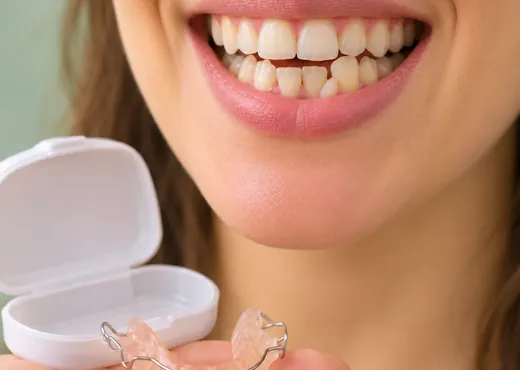
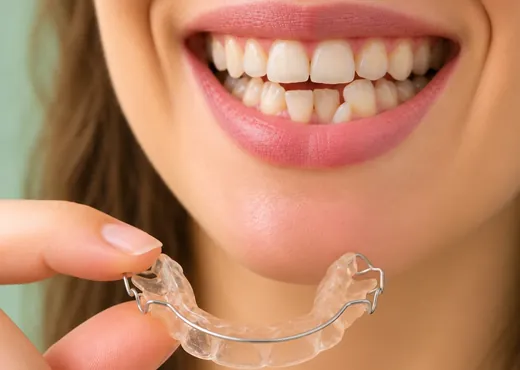
Troca a foto 5 do Para quem é por uma com a contenção visível
A contenção de acrílico com fio metálico fica inteira, na altura do queixo, na mesma composição da foto 6. Posição de corte das fotos 5 e 6 igualada.

Claude-Session: https://claude.ai/code/session_013ZBAMFUUhj3y7DouA4XRGk

diff --git a/styles.css b/styles.css
@@ -227,9 +227,8 @@ body.menu-aberto { overflow: hidden; }
 @media (min-width: 1024px) {
     .situacoes { gap: 20px; }
     .situacao-img { aspect-ratio: auto; height: clamp(140px, 25vh, 260px); }
-    /* Fotos 5 e 6: a boca fica no alto e o objeto embaixo, então o corte extra prioriza o alto */
-    .situacoes li:nth-child(5) .situacao-img img { object-position: center 10%; }
-    .situacoes li:nth-child(6) .situacao-img img { object-position: center 30%; }
+    /* Fotos 5 e 6: a boca fica no alto e o objeto (contenção, alinhador) embaixo, então o corte extra prioriza o alto */
+    .situacoes li:nth-child(n+5) .situacao-img img { object-position: center 30%; }
     .situacao-texto { padding: 14px 18px 16px; }
     .situacoes h3 { margin-bottom: 4px; font-size: 1.05rem; }
     .situacoes p { font-size: .88rem; line-height: 1.5; }

diff --git a/index.html b/index.html
@@ -34,7 +34,7 @@
     <link rel="preconnect" href="https://fonts.gstatic.com" crossorigin>
     <link href="https://fonts.googleapis.com/css2?family=Montserrat:wght@300;400;500;600;700&display=swap" rel="stylesheet">
     <link rel="preload" as="image" href="assets/profissional/dra-nayane-topo-900.webp" imagesrcset="assets/profissional/dra-nayane-topo-560.webp 560w, assets/profissional/dra-nayane-topo-900.webp 900w" imagesizes="(min-width: 1024px) 460px, 86vw">
-    <link rel="stylesheet" href="styles.css?v=20261107-20">
+    <link rel="stylesheet" href="styles.css?v=20261107-21">
 </head>
 <body>
 
